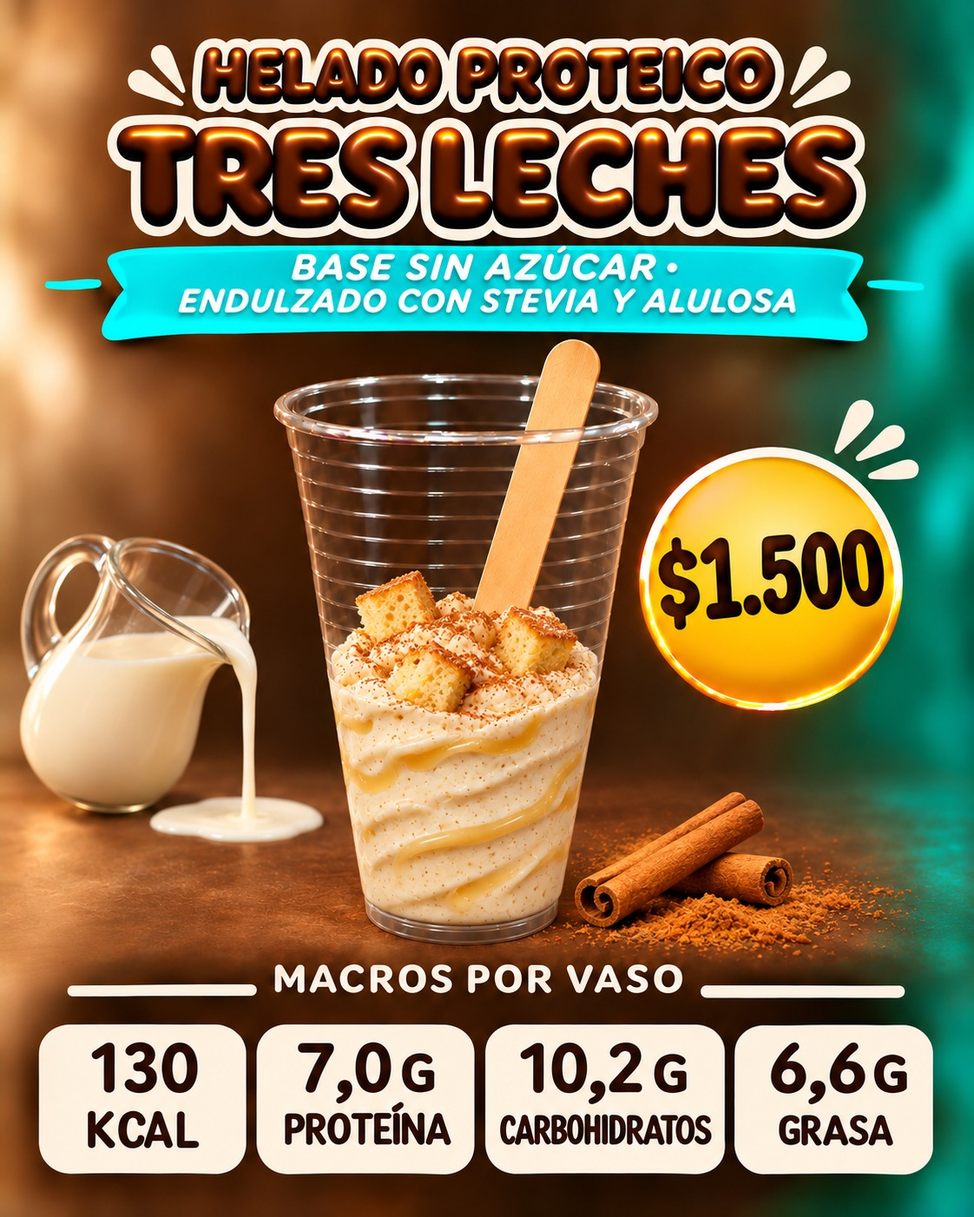
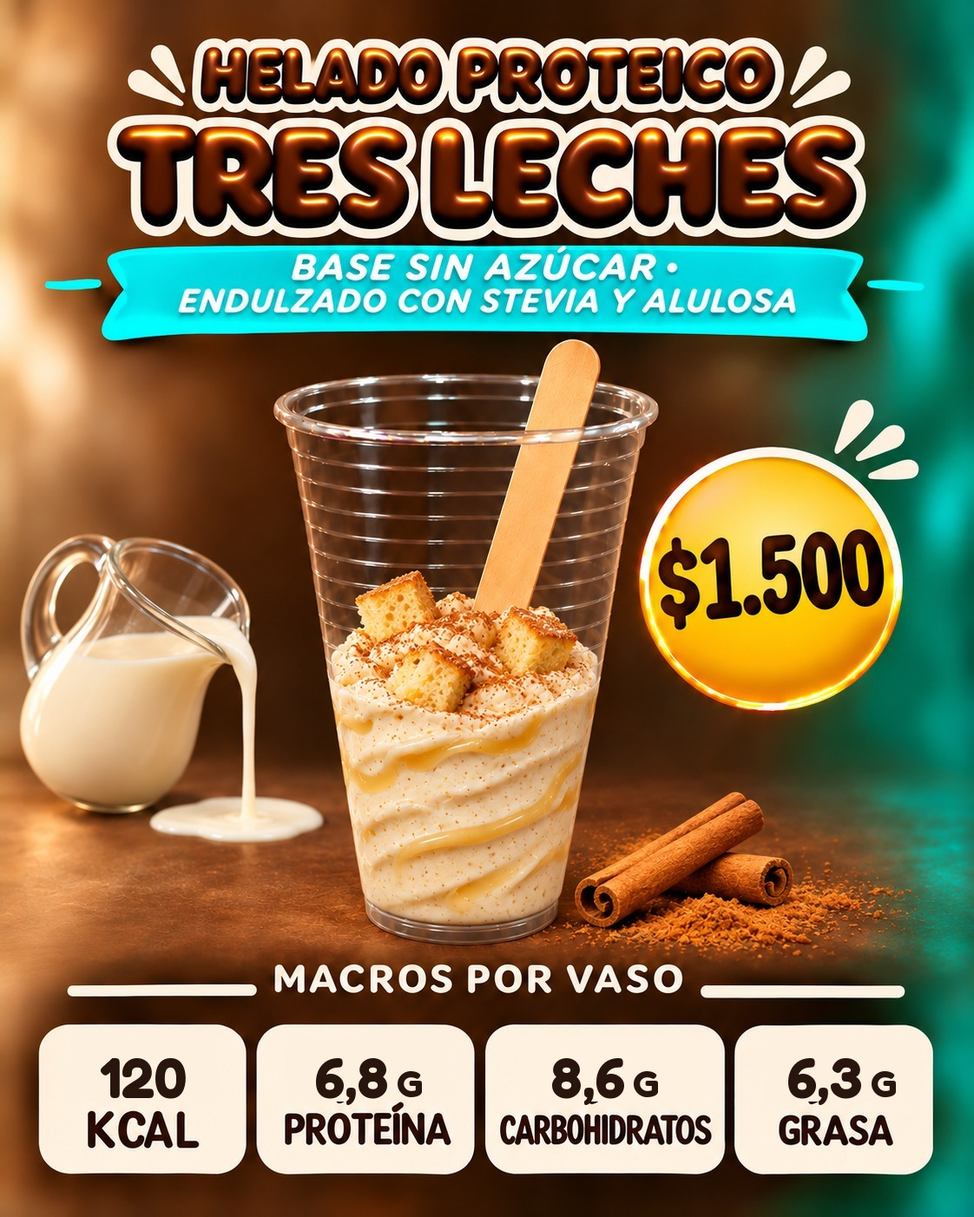
Helado Tres Leches sin bizcocho: macros y afiche nuevos
Claude-Session: https://claude.ai/code/session_013ZgZPSRHEDhMsqmx8Km842

diff --git a/tarjeta.html b/tarjeta.html
@@ -2483,7 +2483,7 @@ function renderEvolucion(s){
     oculta con «Ya no lo vendo» no llega. «Lo quiero» abre una ventanita (foto grande, cantidad, total)
     y después WhatsApp a Sara con el pedido. El stock solo baja cuando ella cobra en la tienda.
     Al cambiar una foto de img/tienda/ con el mismo nombre, subir TIENDA_FOTO_V junto con FOTO_V de tienda.html. */
- var TIENDA_FOTO_V = "65", TIENDA_WSP = "56975196394", TIENDA_SITIO = "https://encaladasara363-lang.github.io/wgymadnsport-archivos/";
+ var TIENDA_FOTO_V = "66", TIENDA_WSP = "56975196394", TIENDA_SITIO = "https://encaladasara363-lang.github.io/wgymadnsport-archivos/";
  /* Interruptor (25-10-2026, la dueña: "no quiero publicar la tienda el lunes porque compré ropa en Shein y no sé
     cuándo me llegaría"): en false la tarjeta no muestra la tienda aunque la Versión 25 esté instalada.
     Ponerlo en true (y subir TARJETA_VERSION) solo cuando ella lo pida. */
@@ -2641,7 +2641,7 @@ function renderEvolucion(s){
   { re:/^helado proteico sue[nñ]o de (avellana|nutella)/i, k:137, p:9.4, c:12.4, g:5.8, por:"100 ml", lleva:"Proteína, crema de avellanas con cacao sin azúcar y avellanas", al:"leche y avellanas" },
   { re:/^helado proteico alfajor/i, k:164, p:9.4, c:18.3, g:6.4, por:"100 ml", lleva:"Proteína, galleta, manjar y chocolate", al:"leche, trigo y soya" },
   { re:/^helado proteico matcha frutilla/i, k:92, p:5.9, c:7.8, g:4.1, por:"100 ml", lleva:"Proteína de vainilla, matcha y veta de frutilla, sin azúcar añadida: endulzado con stevia y alulosa. El matcha trae unos 30 mg de cafeína por vaso", al:"leche" },
-  { re:/^helado proteico tres leches/i, k:130, p:7.0, c:10.2, g:6.6, por:"100 ml", lleva:"Proteína de vainilla, leche en polvo, canela, veta de tres leches y cubitos de bizcocho de vainilla; base endulzada con stevia y alulosa (menos de 1 g de azúcar añadida por vaso, del bizcocho)", al:"leche, huevo y trigo" },
+  { re:/^helado proteico tres leches/i, k:120, p:6.8, c:8.6, g:6.3, por:"100 ml", lleva:"Proteína de vainilla, leche en polvo, canela y veta de tres leches; endulzado con stevia y alulosa, sin azúcar añadida", al:"leche" },
   { re:/^helado proteico chocolate dub[aá]i/i, k:182, p:9.3, c:12.8, g:9.9, por:"100 ml", lleva:"Proteína de vainilla y cacao, centro de crema de pistacho y crujiente de Zucaritas sin azúcar con chocolate sin azúcar; base endulzada con stevia y alulosa", al:"leche, pistacho y soya; puede contener gluten" },
   { re:/^helado proteico l[uú]cuma nuez/i, k:144, p:7.3, c:11.1, g:7.5, por:"100 ml", lleva:"Proteína de vainilla, lúcuma en polvo y nueces tostadas, sin azúcar añadida: endulzado con stevia y alulosa", al:"leche y nueces" },
   { re:/^helado proteico choco balls/i, k:148, p:7.2, c:12.1, g:7.3, por:"100 ml", lleva:"Proteína de vainilla y bolitas crocantes de cereal cubiertas de chocolate sin azúcar añadida; base endulzada con stevia y alulosa", al:"leche; puede contener trigo y soya" },
@@ -2767,7 +2767,7 @@ function renderEvolucion(s){
     compara TARJETA_VERSION con tarjeta-version.txt del sitio y, si hay
     una más nueva, la página se recarga sola (el nombre ya aparece
     puesto). Al cambiar tarjeta.html, subir los DOS números juntos. */
- var TARJETA_VERSION = "2026111601", ultimaRevisionVersion = 0;
+ var TARJETA_VERSION = "2026111701", ultimaRevisionVersion = 0;
 function recargarFresco_(v){
  /* Recarga pidiendo la página nueva (11-10-2026): location.reload() podía traer la copia
     guardada del teléfono (GitHub guarda la página ~10 min) y el socio seguía con la versión

diff --git a/tienda.html b/tienda.html
@@ -353,7 +353,7 @@ function hoyISO(){ return new Intl.DateTimeFormat("en-CA", { timeZone:"America/S
 function ahoraTxt(){ var f = new Intl.DateTimeFormat("sv-SE", { timeZone:"America/Santiago", year:"numeric", month:"2-digit", day:"2-digit", hour:"2-digit", minute:"2-digit" }).format(new Date()); return f.replace("T", " ").slice(0, 16); }
 function normTxt(s){ return String(s || "").toUpperCase().normalize("NFD").replace(/[̀-ͯ]/g, ""); }
 /* Al cambiar una foto en img/tienda/ (mismo nombre), subir FOTO_V para que los teléfonos no muestren la antigua. */
-var FOTO_V = "65";
+var FOTO_V = "66";
 function fotoUrl(f){ return f ? (/^data:/.test(f) ? f : f + (f.indexOf("?") < 0 ? "?v=" + FOTO_V : "")) : ""; }
 /* 📷 Foto subida desde el celular (27-10-2026, la dueña: "¿no lo puedo hacer todo sin depender de ti?"): se achica a
    máx. 480 × 640, se le pone el logo del gimnasio arriba a la izquierda (34 % del ancho, como las demás fotos) y se guarda
@@ -694,7 +694,7 @@ setInterval(function(){ if(pend.length) enviarPendientes(); }, 30000);
   var on = document.documentElement.classList.toggle("rosa");
   try{ localStorage.setItem("wgym_tienda_tema_v2", on ? "rosa" : "oscuro"); }catch(e){}
   toast(on ? "🎨 Fondo rosita (solo en este equipo). Toca 🎨 de nuevo para volver al negro." : "🎨 Volviste al fondo negro.", 3500); }; })();
-var TIENDA_VERSION = "2026111504";
+var TIENDA_VERSION = "2026111701";
 setInterval(function(){ if(clave && !document.hidden && $("velo").hidden && !$("app").hidden) enviarPendientes().then(function(){ cargar(true); }); }, 30000);
 function revisarVersion(){
  fetch("tienda-version.txt?t=" + Date.now(), { cache:"no-store" }).then(function(r){ return r.ok ? r.text() : ""; }).then(function(v){

diff --git a/CLAUDE.md b/CLAUDE.md
@@ -1649,7 +1649,7 @@ productos» y «Tienda movimientos», acciones `tienda*` de `docs/apps-script/In
   tarjeta, `tiendaVitrina_` (Versión 25, `ultimaVentaTienda_`) manda `vendido:true` y la tarjeta muestra «VENDIDO» en vez
   de «AGOTADO»; pasados los 15 días la prenda ya no se envía.
 - **⛔ SIN STOCK (27-10-2026, la dueña: "cuando se acaba el producto tendría que salir sin stock para que mis socios sepan"):** en 📦 Inventario, todo producto (no ropa vendida, no batido que sale del tarro, no apartado) con stock 0 sale con la foto gris, sello rojo «SIN STOCK» y pastilla «⛔ SIN STOCK · repón con «Llegó mercadería»»; en la búsqueda de 🛒 Vender dice «⛔ SIN STOCK». En la vitrina de la tarjeta el sello dice «SIN STOCK» (antes «AGOTADO») con «Pronto vuelve». Vuelve solo al cargar mercadería.
-- **🍦 Categoría «Helados» (31-10-2026, la dueña mandó su catálogo de helados proteicos sin azúcar, endulzados con stevia y alulosa):** en `CATS` de `tienda.html`, `TIENDA_ICONOS` de `tarjeta.html` y `SIN_APARTAR` (no se apartan); la vitrina cerrada dice «🍦 Helados proteicos sin azúcar». 5 sabores con foto sacada de cada página del catálogo (ya traen el logo; no ponérselo encima): Manjarate (`img/tienda/helado-proteico-manjarate.jpg`, 125 g, 176 kcal · 11,9 P · 19,8 C · 5,8 G), Capuchino (110 g, 130 · 10 · 11 · 5), Tropical Coco (130 g, 143 · 9,8 · 14 · 5,3), Banana Choco Maní (130 g, 161 · 10,9 · 16,3 · 5,8; contiene maní) y Berry Cream (130 g, 126 · 9,9 · 12,3 · 3,9). Pistacho Dorado (01-11-2026, afiche aparte de la dueña; ya trae el logo: `img/tienda/helado-proteico-pistacho-dorado.jpg`; 125 g, 184 kcal · 12,5 P · 15,4 C · 8,0 G; costo $1.100, venta $2.000, 3 unidades; con proteína de vainilla; contiene leche y pistacho; el afiche no dice «sin azúcar», por eso no se puso). Pistacho Menta (02-11-2026, afiche de la dueña con el logo: `img/tienda/helado-proteico-pistacho-menta.jpg`; mismos macros que el Pistacho Dorado, 125 g, 184 kcal · 12,5 P · 15,4 C · 8,0 G; contiene leche y pistacho; 3 unidades; costo y precio como el Pistacho Dorado salvo que la dueña diga otro). Oreo proteico (02-11-2026, afiche de la dueña con el logo: `img/tienda/helado-proteico-oreo.jpg`; 130 g, 185 kcal · 12,6 P · 17,7 C · 7,1 G; con proteína de vainilla y 3 galletas tipo Oreo; contiene leche y trigo; 3 unidades; venta $1.500 como los otros). Coco Bombón proteico (02-11-2026, afiche de la dueña con el logo: `img/tienda/helado-proteico-coco-bombon.jpg`; 182 kcal · 10,0 P · 12,7 C · 10,4 G; coco, almendras y chocolate blanco; contiene leche y almendras; 3 unidades a $1.500). Moka White proteico (03-11-2026, afiche de la dueña con el logo: `img/tienda/helado-proteico-moka-white.jpg`; 154 kcal · 9,7 P · 14,3 C · 7,0 G; café y chocolate blanco; contiene leche; 3 unidades a $1.500). Avellana Manjar proteico (03-11-2026, afiche de la dueña con el logo: `img/tienda/helado-proteico-avellana-manjar.jpg`; 163 kcal · 10,0 P · 13,5 C · 7,8 G; avellanas y manjar; contiene leche y avellanas; 3 unidades a $1.500). Banana Split Nuez proteico (03-11-2026, afiche de la dueña con el logo: `img/tienda/helado-proteico-banana-split-nuez.jpg`; 137 kcal · 8,2 P · 12,3 C · 5,8 G; plátano, nueces y chocolate; contiene leche y nueces; 4 unidades a $1.500; en `TIENDA_MACROS` va antes de la regla de «banana» para no confundirse con Banana Choco Maní). Coco Vainilla proteico (04-11-2026, afiche de la dueña con el logo: `img/tienda/helado-proteico-coco-vainilla.jpg`; 140 kcal · 9,8 P · 9,4 C · 6,7 G; coco y vainilla; contiene leche; 3 unidades a $1.500; en `TIENDA_MACROS` va antes de la regla de «coco» para no confundirse con Coco Bombón). Alfajor Crunch proteico (04-11-2026, afiche de la dueña con el logo: `img/tienda/helado-proteico-alfajor-crunch.jpg`; 164 kcal · 9,4 P · 18,3 C · 6,4 G; galleta, manjar y chocolate; contiene leche, trigo y soya; 3 unidades a $1.500). Mango Chía proteico (05-11-2026, afiche de la dueña con el logo: `img/tienda/helado-proteico-mango-chia.jpg`; 111 kcal · 7,8 P · 10,7 C · 3,9 G; mango y chía; contiene leche; 5 unidades a $1.500). Selva Negra proteico (05-11-2026, afiche de la dueña con el logo: `img/tienda/helado-proteico-selva-negra.jpg`; 112 kcal · 8,6 P · 10,5 C · 3,9 G; cereza y cacao; contiene leche; 3 unidades a $1.500). Menta Chips proteico (05-11-2026, afiche de la dueña con el logo: `img/tienda/helado-proteico-menta-chips.jpg`; 140 kcal · 9,7 P · 10,6 C · 6,2 G; menta y chips de chocolate; contiene leche; 4 unidades a $1.500). Brownie Choco proteico (05-11-2026, afiche de la dueña con el logo: `img/tienda/helado-proteico-brownie-choco.jpg`; 165 kcal · 9,5 P · 14,8 C · 7,9 G; brownie y chocolate; contiene leche, trigo y huevo; 3 unidades a $1.500). Maní Bombón proteico (10-11-2026, afiche de la dueña con el logo: `img/tienda/helado-proteico-mani-bombon.jpg`; 175 kcal · 10,9 P · 11,6 C · 9,6 G; maní y chocolate; contiene leche y maní; $1.500). Sueño de Avellana proteico (13-11-2026, afiche de la dueña «Sueño de Nutella» con el logo: `img/tienda/helado-proteico-sueno-avellana.jpg`; en la tienda sin la marca Nutella en el nombre; 137 kcal · 9,4 P · 12,4 C · 5,8 G; hecho con crema En Línea; contiene leche y avellanas; 4 unidades a $1.500). Manjar Café Crunch proteico (13-11-2026, afiche de la dueña con el logo: `img/tienda/helado-proteico-manjar-cafe-crunch.jpg`; 155 kcal · 10,0 P · 15,9 C · 5,9 G; manjar, café y maní; contiene leche y maní; 5 unidades a $1.500). Tiramisú proteico (14-11-2026, afiche de la dueña con el logo: `img/tienda/helado-proteico-tiramisu.jpg`; 143 kcal · 9,7 P · 14,5 C · 4,9 G; café, cacao y bizcocho; contiene leche, trigo y soya; 5 unidades a $1.500). Banana Muss proteico (15-11-2026, afiche de la dueña con el logo: `img/tienda/helado-proteico-banana-muss.jpg`; 201 kcal · 12,2 P · 17,9 C · 7,4 G; plátano; contiene leche y maní; 6 unidades a $1.500; la dueña pidió borrar «con trozos de maní» del afiche (tapado con el fondo); en `TIENDA_MACROS` va antes de «banana split» y de «banana»). Manjarate Nuez proteico (15-11-2026, receta y afiche hechos por Claude a pedido de la dueña: su base + 40 g de manjar con alulosa, 10 g de cacao y 20 g de nueces tostadas; afiche de la dueña (reemplazó el armado por Claude el mismo día) con el logo: `img/tienda/helado-proteico-manjarate-nuez-2.jpg`, nombre nuevo porque el teléfono seguía mostrando la foto antigua guardada; 151 kcal · 8,1 P · 11,1 C · 8,3 G estimados; contiene leche y nueces; 3 unidades a $1.500; en `TIENDA_MACROS` va antes de «manjarate»). Confeti Choco proteico (15-11-2026, la dueña lo hace con M&M's reales, 8 por vaso; bolsa de 510,3 g ≈ 583 lentejas a $9.500 → ≈$130 por vaso; su base de vainilla sin cacao; 136 kcal · 6,8 P · 12,6 C · 6,1 G estimados por vaso, ≈4 g de azúcar añadida de las lentejas: el afiche dice «base sin azúcar», no «sin azúcar»; contiene leche y soya, puede contener maní; desde el mismo día (la dueña: "que sea llamativo al principio del nombre") se llama «Helado proteico M&M's Confeti Choco» (el regex de `TIENDA_MACROS` acepta los dos nombres) y el detalle «Vaso 100 ml»; los enlaces `?nuevo=1` aceptan `porfoto=1`, que busca el producto por su foto para cambiarle el nombre sin duplicarlo; a $2.000 (la dueña subió el precio el mismo día), sin stock por ahora; afiche de la dueña hecho en ChatGPT (con «4 g de azúcar añadida por vaso»), con los números de macros corregidos por Claude (traía los de la primera receta: 146 · 6,9 · 10,1 · 7,8) y el logo arriba a la izquierda: `img/tienda/helado-proteico-confeti-choco-2.jpg`; el afiche dice «con M&M's» porque lleva M&M's de verdad). Choco Balls Crunch proteico (15-11-2026, la dueña lo hace con Balls crocantes En Línea sin azúcar añadida, ≈10 g por vaso; afiche de la dueña hecho en ChatGPT + logo: `img/tienda/helado-proteico-choco-balls-crunch.jpg`; 148 kcal · 7,2 P · 12,1 C · 7,3 G **provisorios** (no se encontró la etiqueta de las Balls; corregir cuando la dueña la mande); $1.500, sin stock). Lúcuma Nuez proteico (15-11-2026, receta de Claude a pedido de la dueña: su base + 25 g de lúcuma en polvo Natplus 1 kg (compró la de $24.396 con envío gratis) + 20 g de nueces tostadas; 144 kcal · 7,3 P · 11,1 C · 7,5 G aproximados (corregir con la etiqueta de la lúcuma si la manda); contiene leche y nueces; $2.000, sin stock; afiche de la dueña hecho en ChatGPT, SIN logo a pedido de ella: `img/tienda/helado-proteico-lucuma-nuez-2.jpg`). Chocolate Dubái proteico (15-11-2026, receta de Claude a pedido de la dueña: base con cacao, centro de crema de pistacho aumentada (25 g de crema + 15 g de leche en polvo + 15 g de crema + 5 g de alulosa) y crujiente de 15 g de Zucaritas sin azúcar con 15 g de chocolate Carat; 182 kcal · 9,3 P · 12,8 C · 9,9 G; contiene leche, pistacho y soya, puede contener gluten; $2.000, sin stock; afiche de la dueña en ChatGPT, sin logo, con los macros corregidos por Claude (traía 161 · 8,2 · 11,1 · 8,8, de antes de aumentar la crema): `img/tienda/helado-proteico-chocolate-dubai.jpg`). Tres Leches proteico (15-11-2026, sabor en tendencia elegido por la dueña, costo $900, receta de Claude: su base + 15 g más de leche en polvo y canela, veta de 15 g de leche en polvo + 20 g de crema + 5 g de alulosa y 15 g de bizcochos de vainilla en cubitos; rinde 6 vasos; 130 kcal · 7,0 P · 10,2 C · 6,6 G; contiene leche, huevo y trigo; $1.500, sin stock; afiche de la dueña en ChatGPT, sin logo: `img/tienda/helado-proteico-tres-leches.jpg`). Matcha Frutilla proteico (15-11-2026, sabor en tendencia elegido por la dueña, receta de Claude: su base + 6 g de matcha y veta de 100 g de frutillas cocidas con 5 g de alulosa y limón; rinde 6 vasos; 92 kcal · 5,9 P · 7,8 C · 4,1 G; ≈30 mg de cafeína por vaso; contiene leche; $1.500, sin stock; afiche de la dueña en ChatGPT, sin logo, con la proteína corregida por Claude (traía 8,1): `img/tienda/helado-proteico-matcha-frutilla.jpg`). **Todos los vasos son de 100 ml (02-11-2026, la dueña): en `TIENDA_MACROS` el campo `por` dice «100 ml» en todos los sabores (los gramos de los afiches eran el peso de la porción).** Los nombres de producto empiezan con «Helado proteico …» porque `TIENDA_MACROS` de la tarjeta los reconoce así (campo `por` = porción del vaso). Precio de venta $1.500 cada uno (la dueña, 31-10-2026); costo y stock por confirmar. **Un solo código para todos los sabores (31-10-2026, pedido de la dueña):** `CODIGOS_GRUPO` en `tienda.html` (`"2001500000000": "Helados"`); al escanearlo en 🛒 Vender (normal o «Escanear varias») se abre «🍦 ¿Qué sabor?» (`elegirDelGrupo`) con la foto y el stock de cada helado, y se suma el elegido (con «varias», la cámara vuelve a abrirse). No se guarda como código de ningún producto. Etiqueta impresa para el refrigerador: 2 por hoja chica de 5 × 7 cm (logo, «HELADOS · PROTEICOS SIN AZÚCAR», código, «TODOS LOS SABORES $1.500»), probada con ZXing.
+- **🍦 Categoría «Helados» (31-10-2026, la dueña mandó su catálogo de helados proteicos sin azúcar, endulzados con stevia y alulosa):** en `CATS` de `tienda.html`, `TIENDA_ICONOS` de `tarjeta.html` y `SIN_APARTAR` (no se apartan); la vitrina cerrada dice «🍦 Helados proteicos sin azúcar». 5 sabores con foto sacada de cada página del catálogo (ya traen el logo; no ponérselo encima): Manjarate (`img/tienda/helado-proteico-manjarate.jpg`, 125 g, 176 kcal · 11,9 P · 19,8 C · 5,8 G), Capuchino (110 g, 130 · 10 · 11 · 5), Tropical Coco (130 g, 143 · 9,8 · 14 · 5,3), Banana Choco Maní (130 g, 161 · 10,9 · 16,3 · 5,8; contiene maní) y Berry Cream (130 g, 126 · 9,9 · 12,3 · 3,9). Pistacho Dorado (01-11-2026, afiche aparte de la dueña; ya trae el logo: `img/tienda/helado-proteico-pistacho-dorado.jpg`; 125 g, 184 kcal · 12,5 P · 15,4 C · 8,0 G; costo $1.100, venta $2.000, 3 unidades; con proteína de vainilla; contiene leche y pistacho; el afiche no dice «sin azúcar», por eso no se puso). Pistacho Menta (02-11-2026, afiche de la dueña con el logo: `img/tienda/helado-proteico-pistacho-menta.jpg`; mismos macros que el Pistacho Dorado, 125 g, 184 kcal · 12,5 P · 15,4 C · 8,0 G; contiene leche y pistacho; 3 unidades; costo y precio como el Pistacho Dorado salvo que la dueña diga otro). Oreo proteico (02-11-2026, afiche de la dueña con el logo: `img/tienda/helado-proteico-oreo.jpg`; 130 g, 185 kcal · 12,6 P · 17,7 C · 7,1 G; con proteína de vainilla y 3 galletas tipo Oreo; contiene leche y trigo; 3 unidades; venta $1.500 como los otros). Coco Bombón proteico (02-11-2026, afiche de la dueña con el logo: `img/tienda/helado-proteico-coco-bombon.jpg`; 182 kcal · 10,0 P · 12,7 C · 10,4 G; coco, almendras y chocolate blanco; contiene leche y almendras; 3 unidades a $1.500). Moka White proteico (03-11-2026, afiche de la dueña con el logo: `img/tienda/helado-proteico-moka-white.jpg`; 154 kcal · 9,7 P · 14,3 C · 7,0 G; café y chocolate blanco; contiene leche; 3 unidades a $1.500). Avellana Manjar proteico (03-11-2026, afiche de la dueña con el logo: `img/tienda/helado-proteico-avellana-manjar.jpg`; 163 kcal · 10,0 P · 13,5 C · 7,8 G; avellanas y manjar; contiene leche y avellanas; 3 unidades a $1.500). Banana Split Nuez proteico (03-11-2026, afiche de la dueña con el logo: `img/tienda/helado-proteico-banana-split-nuez.jpg`; 137 kcal · 8,2 P · 12,3 C · 5,8 G; plátano, nueces y chocolate; contiene leche y nueces; 4 unidades a $1.500; en `TIENDA_MACROS` va antes de la regla de «banana» para no confundirse con Banana Choco Maní). Coco Vainilla proteico (04-11-2026, afiche de la dueña con el logo: `img/tienda/helado-proteico-coco-vainilla.jpg`; 140 kcal · 9,8 P · 9,4 C · 6,7 G; coco y vainilla; contiene leche; 3 unidades a $1.500; en `TIENDA_MACROS` va antes de la regla de «coco» para no confundirse con Coco Bombón). Alfajor Crunch proteico (04-11-2026, afiche de la dueña con el logo: `img/tienda/helado-proteico-alfajor-crunch.jpg`; 164 kcal · 9,4 P · 18,3 C · 6,4 G; galleta, manjar y chocolate; contiene leche, trigo y soya; 3 unidades a $1.500). Mango Chía proteico (05-11-2026, afiche de la dueña con el logo: `img/tienda/helado-proteico-mango-chia.jpg`; 111 kcal · 7,8 P · 10,7 C · 3,9 G; mango y chía; contiene leche; 5 unidades a $1.500). Selva Negra proteico (05-11-2026, afiche de la dueña con el logo: `img/tienda/helado-proteico-selva-negra.jpg`; 112 kcal · 8,6 P · 10,5 C · 3,9 G; cereza y cacao; contiene leche; 3 unidades a $1.500). Menta Chips proteico (05-11-2026, afiche de la dueña con el logo: `img/tienda/helado-proteico-menta-chips.jpg`; 140 kcal · 9,7 P · 10,6 C · 6,2 G; menta y chips de chocolate; contiene leche; 4 unidades a $1.500). Brownie Choco proteico (05-11-2026, afiche de la dueña con el logo: `img/tienda/helado-proteico-brownie-choco.jpg`; 165 kcal · 9,5 P · 14,8 C · 7,9 G; brownie y chocolate; contiene leche, trigo y huevo; 3 unidades a $1.500). Maní Bombón proteico (10-11-2026, afiche de la dueña con el logo: `img/tienda/helado-proteico-mani-bombon.jpg`; 175 kcal · 10,9 P · 11,6 C · 9,6 G; maní y chocolate; contiene leche y maní; $1.500). Sueño de Avellana proteico (13-11-2026, afiche de la dueña «Sueño de Nutella» con el logo: `img/tienda/helado-proteico-sueno-avellana.jpg`; en la tienda sin la marca Nutella en el nombre; 137 kcal · 9,4 P · 12,4 C · 5,8 G; hecho con crema En Línea; contiene leche y avellanas; 4 unidades a $1.500). Manjar Café Crunch proteico (13-11-2026, afiche de la dueña con el logo: `img/tienda/helado-proteico-manjar-cafe-crunch.jpg`; 155 kcal · 10,0 P · 15,9 C · 5,9 G; manjar, café y maní; contiene leche y maní; 5 unidades a $1.500). Tiramisú proteico (14-11-2026, afiche de la dueña con el logo: `img/tienda/helado-proteico-tiramisu.jpg`; 143 kcal · 9,7 P · 14,5 C · 4,9 G; café, cacao y bizcocho; contiene leche, trigo y soya; 5 unidades a $1.500). Banana Muss proteico (15-11-2026, afiche de la dueña con el logo: `img/tienda/helado-proteico-banana-muss.jpg`; 201 kcal · 12,2 P · 17,9 C · 7,4 G; plátano; contiene leche y maní; 6 unidades a $1.500; la dueña pidió borrar «con trozos de maní» del afiche (tapado con el fondo); en `TIENDA_MACROS` va antes de «banana split» y de «banana»). Manjarate Nuez proteico (15-11-2026, receta y afiche hechos por Claude a pedido de la dueña: su base + 40 g de manjar con alulosa, 10 g de cacao y 20 g de nueces tostadas; afiche de la dueña (reemplazó el armado por Claude el mismo día) con el logo: `img/tienda/helado-proteico-manjarate-nuez-2.jpg`, nombre nuevo porque el teléfono seguía mostrando la foto antigua guardada; 151 kcal · 8,1 P · 11,1 C · 8,3 G estimados; contiene leche y nueces; 3 unidades a $1.500; en `TIENDA_MACROS` va antes de «manjarate»). Confeti Choco proteico (15-11-2026, la dueña lo hace con M&M's reales, 8 por vaso; bolsa de 510,3 g ≈ 583 lentejas a $9.500 → ≈$130 por vaso; su base de vainilla sin cacao; 136 kcal · 6,8 P · 12,6 C · 6,1 G estimados por vaso, ≈4 g de azúcar añadida de las lentejas: el afiche dice «base sin azúcar», no «sin azúcar»; contiene leche y soya, puede contener maní; desde el mismo día (la dueña: "que sea llamativo al principio del nombre") se llama «Helado proteico M&M's Confeti Choco» (el regex de `TIENDA_MACROS` acepta los dos nombres) y el detalle «Vaso 100 ml»; los enlaces `?nuevo=1` aceptan `porfoto=1`, que busca el producto por su foto para cambiarle el nombre sin duplicarlo; a $2.000 (la dueña subió el precio el mismo día), sin stock por ahora; afiche de la dueña hecho en ChatGPT (con «4 g de azúcar añadida por vaso»), con los números de macros corregidos por Claude (traía los de la primera receta: 146 · 6,9 · 10,1 · 7,8) y el logo arriba a la izquierda: `img/tienda/helado-proteico-confeti-choco-2.jpg`; el afiche dice «con M&M's» porque lleva M&M's de verdad). Choco Balls Crunch proteico (15-11-2026, la dueña lo hace con Balls crocantes En Línea sin azúcar añadida, ≈10 g por vaso; afiche de la dueña hecho en ChatGPT + logo: `img/tienda/helado-proteico-choco-balls-crunch.jpg`; 148 kcal · 7,2 P · 12,1 C · 7,3 G **provisorios** (no se encontró la etiqueta de las Balls; corregir cuando la dueña la mande); $1.500, sin stock). Lúcuma Nuez proteico (15-11-2026, receta de Claude a pedido de la dueña: su base + 25 g de lúcuma en polvo Natplus 1 kg (compró la de $24.396 con envío gratis) + 20 g de nueces tostadas; 144 kcal · 7,3 P · 11,1 C · 7,5 G aproximados (corregir con la etiqueta de la lúcuma si la manda); contiene leche y nueces; $2.000, sin stock; afiche de la dueña hecho en ChatGPT, SIN logo a pedido de ella: `img/tienda/helado-proteico-lucuma-nuez-2.jpg`). Chocolate Dubái proteico (15-11-2026, receta de Claude a pedido de la dueña: base con cacao, centro de crema de pistacho aumentada (25 g de crema + 15 g de leche en polvo + 15 g de crema + 5 g de alulosa) y crujiente de 15 g de Zucaritas sin azúcar con 15 g de chocolate Carat; 182 kcal · 9,3 P · 12,8 C · 9,9 G; contiene leche, pistacho y soya, puede contener gluten; $2.000, sin stock; afiche de la dueña en ChatGPT, sin logo, con los macros corregidos por Claude (traía 161 · 8,2 · 11,1 · 8,8, de antes de aumentar la crema): `img/tienda/helado-proteico-chocolate-dubai.jpg`). Tres Leches proteico (15-11-2026, sabor en tendencia elegido por la dueña, costo $900, receta de Claude: su base + 15 g más de leche en polvo y canela, veta de 15 g de leche en polvo + 20 g de crema + 5 g de alulosa ; rinde 6 vasos; desde el 17-11-2026 SIN bizcocho (la dueña: "es muy rico pero no le viene el bizcocho"): 120 kcal · 6,8 P · 8,6 C · 6,3 G, sin azúcar añadida (antes, con 15 g de bizcocho: 130 · 7,0 · 10,2 · 6,6); contiene leche; afiche con los números nuevos (la foto aún muestra cubitos); $1.500, sin stock; afiche de la dueña en ChatGPT, sin logo: `img/tienda/helado-proteico-tres-leches.jpg`). Matcha Frutilla proteico (15-11-2026, sabor en tendencia elegido por la dueña, receta de Claude: su base + 6 g de matcha y veta de 100 g de frutillas cocidas con 5 g de alulosa y limón; rinde 6 vasos; 92 kcal · 5,9 P · 7,8 C · 4,1 G; ≈30 mg de cafeína por vaso; contiene leche; $1.500, sin stock; afiche de la dueña en ChatGPT, sin logo, con la proteína corregida por Claude (traía 8,1): `img/tienda/helado-proteico-matcha-frutilla.jpg`). **Todos los vasos son de 100 ml (02-11-2026, la dueña): en `TIENDA_MACROS` el campo `por` dice «100 ml» en todos los sabores (los gramos de los afiches eran el peso de la porción).** Los nombres de producto empiezan con «Helado proteico …» porque `TIENDA_MACROS` de la tarjeta los reconoce así (campo `por` = porción del vaso). Precio de venta $1.500 cada uno (la dueña, 31-10-2026); costo y stock por confirmar. **Un solo código para todos los sabores (31-10-2026, pedido de la dueña):** `CODIGOS_GRUPO` en `tienda.html` (`"2001500000000": "Helados"`); al escanearlo en 🛒 Vender (normal o «Escanear varias») se abre «🍦 ¿Qué sabor?» (`elegirDelGrupo`) con la foto y el stock de cada helado, y se suma el elegido (con «varias», la cámara vuelve a abrirse). No se guarda como código de ningún producto. Etiqueta impresa para el refrigerador: 2 por hoja chica de 5 × 7 cm (logo, «HELADOS · PROTEICOS SIN AZÚCAR», código, «TODOS LOS SABORES $1.500»), probada con ZXing.
 - **🥤 Smoothie proteico Choco Banana Cream (05-11-2026, reemplaza al «Batido de proteína» de Clear Protein, que la dueña ya no vende):** Smoothies, vaso de 450 ml, $4.500; receta de la dueña: 200 ml de leche entera sin lactosa, 30 g de proteína Dragon Pharma Protein Phorm chocolate milkshake (carne + whey; tarro 2.268 g a $74.000 → ≈75 smoothies, ≈$979 por 30 g), 70 g de plátano congelado, 60 g de yogur natural sin azúcar, 60 g de hielo, 0,3 g de xantana y stevia opcional; costo ≈$1.580. Foto `img/tienda/smoothie-choco-banana-cream.jpg` (afiche: foto de ChatGPT + logo + cuadro con el tarro Protein Phorm (sin «carne + whey»: a la dueña le pareció feo), para que los socios sepan qué proteína toman, + «SMOOTHIE» grande en dorado con sombra roja (pedido de la dueña) y el sabor en Rubik Distressed blanco, los 4 macros en Anton, $4.500 y la franja roja grande «💪 CREATINA + $1.000 ADICIONAL» a todo el ancho, abajo (texto y tamaño pedidos por la dueña); armado con HTML y Playwright; cada sabor nuevo, igual). Macros en `TIENDA_MACROS` (`/^smoothie proteico choco banana/`): ≈340 kcal · 31 P · 33 C · 10 G, contiene leche. Lleva «💪 + Creatina $1.000» (`esBatido` en la tienda; desde el 15-11-2026, la dueña: "no sale para anotarla", al buscar en 🛒 Vender cada batido/smoothie trae además una fila amarilla «💪 … CON CREATINA · $precio+1.000» que lo suma ya con creatina; en la tarjeta `conCrea` va solo para batidos, smoothies y el granizado: antes salía también en helados y waffle porque usaba `tvMacros_`). El ganador de masa ahora descuenta del tarro del smoothie (`USA_PORCION` base `/^(smoothie|batido de prote)/`; en la vitrina, primero el smoothie).
 - **💪 Un solo código «Por porción» (10-11-2026, la dueña: "un solo QR como los helados… smoothie, pre entreno, creatina"):** `CODIGOS_GRUPO` `"2009000000001": "Por porción"`; al escanearlo en 🛒 Vender se abre «💪 ¿Qué lleva?» con todo lo que cumple `esPorPorcion` (smoothies, pre entrenos y granizado y, desde el 10-11-2026 (la dueña: "todo lo que es suplementos"), toda la categoría Suplementos, también los tarros enteros como la beta alanina y la creatina de 500 g), ordenado smoothies → pre entrenos → creatinas → proteínas. **La dueña usa la etiqueta ya impresa del pre entreno Mr Hyde (la del Fruit Punch):** en `alEscanear`, escanear un producto «Pre entreno Mr Hyde…» abre esta misma lista (reemplaza el «¿Qué sabor?» de `FAMILIAS` para el Mr Hyde). **Bebestibles igual (10-11-2026, la dueña tiene impresa la etiqueta del agua):** escanear «Agua purificada WOL…» o «Recarga de agua…» abre «¿Qué bebestible?» con toda la categoría Bebestibles (el agua incluida). **Un código por sección (10-11-2026):** `CODIGOS_GRUPO` suma `"2008000000004": "Bebestibles"` y `"2007000000007": "Snacks"` («¿Qué snack?»). Hoja de etiquetas de 5 × 7 pulgadas con 6 de cada uno de los 4 códigos (POR PORCIÓN 2009000000001, BEBESTIBLES, SNACKS, HELADOS 2001500000000), leídas con ZXing. En la lista «¿Qué…?» el detalle de cada producto (tamaño, ej. «500 ml» / «1 litro») va grande en amarillo (`.gdet`; la dueña: "específico en grande si es de medio o un litro"). La lista va ordenada de menor a mayor tamaño (ml, litros, «litro y medio», gramos; sin tamaño al final) y luego por nombre (`tam`/`porTam` en `elegirDelGrupo`). Etiquetas de 24 por hoja de 5 × 7 pulgadas «SUPLEMENTOS · POR PORCIÓN», leídas con ZXing.
 - **🍹 Categoría «Smoothies» (05-11-2026, la dueña: "una sección de smoothies… unos 10 sabores", el primero el Choco Banana Cream):** en `CATS` de `tienda.html`, `TIENDA_ICONOS` de `tarjeta.html` y `SIN_APARTAR`; la vitrina cerrada dice «🍹 Smoothies proteicos». Todos los sabores salen de las porciones del producto «Tarro de proteína …» (Suplementos, stock = porciones de 30 g; `USA_PORCION` `/^smoothie/` → `/^tarro de prote/`); el tarro no se muestra a los socios (la tarjeta lo saca de la vitrina) y cada smoothie toma su stock. Los nombres empiezan con «Smoothie proteico …»; cada sabor lleva su línea en `TIENDA_MACROS`. Un solo código para todos: `CODIGOS_GRUPO` `"2004500000001": "Smoothies"` («🍹 ¿Qué sabor?» al escanear); etiquetas de 24 por hoja de 5 × 7 pulgadas con «SMOOTHIES $4.500», leídas con ZXing. El ganador de masa también sale del tarro (`/^(tarro de prote|batido de prote)/`).
